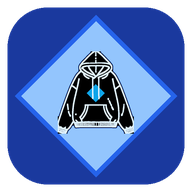
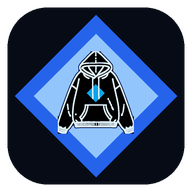
アイコン: 背景を黒に戻し、2段目のひし形をもっと小さくする
背景(7,11,22)は黒に近い黒（服の黒(0,0,0)とは別の色にして、使う色をすべて別々に保つ）。
2段目の半径433→360。服の袖口・裾は、2段目の外へ出て、枠の青に重なる。?v=16。

diff --git a/index.html b/index.html
@@ -8,7 +8,7 @@
     <meta name="robots" content="noindex, nofollow">
     <title>ARELM</title>
     <link rel="stylesheet" href="css/style.css">
-    <link rel="manifest" href="manifest.json?v=15">
+    <link rel="manifest" href="manifest.json?v=16">
     <meta name="theme-color" content="#0f172a">
 
     <!-- iOS（iPhone・iPad）でホーム画面に追加したときの設定 -->
@@ -16,9 +16,9 @@
     <meta name="apple-mobile-web-app-status-bar-style" content="black-translucent">
     <meta name="apple-mobile-web-app-title" content="ARELM">
     <!-- アイコンはMacのアプリと同じ絵、名前は「ARELM」に、全端末で揃える。?v= は、各端末が古いアイコンを使い続けないため -->
-    <link rel="apple-touch-icon" sizes="180x180" href="images/apple-touch-icon.png?v=15">
-    <link rel="apple-touch-icon" sizes="512x512" href="images/icon-512x512.png?v=15">
-    <link rel="icon" type="image/png" sizes="192x192" href="images/icon-any-192x192.png?v=15">
+    <link rel="apple-touch-icon" sizes="180x180" href="images/apple-touch-icon.png?v=16">
+    <link rel="apple-touch-icon" sizes="512x512" href="images/icon-512x512.png?v=16">
+    <link rel="icon" type="image/png" sizes="192x192" href="images/icon-any-192x192.png?v=16">
 </head>
 <body>
     <div id="login-screen" class="login-screen">
